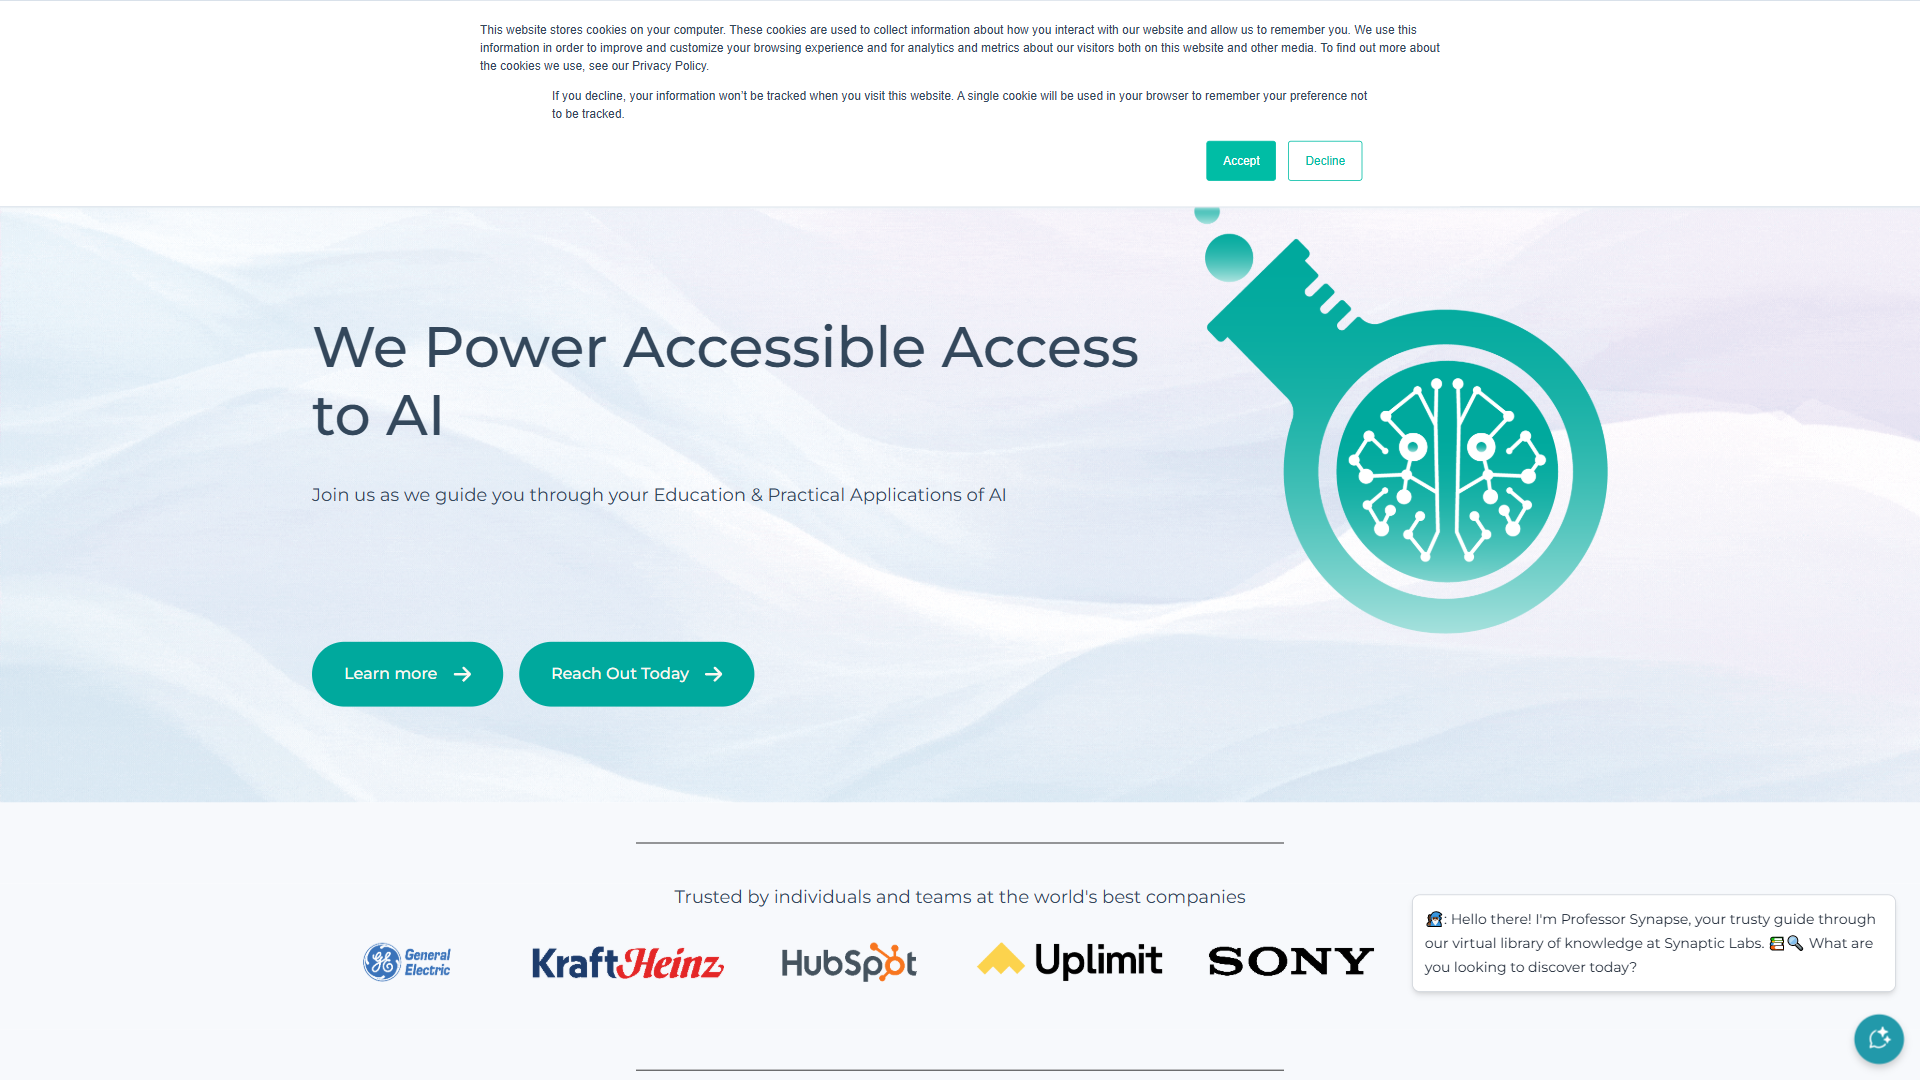
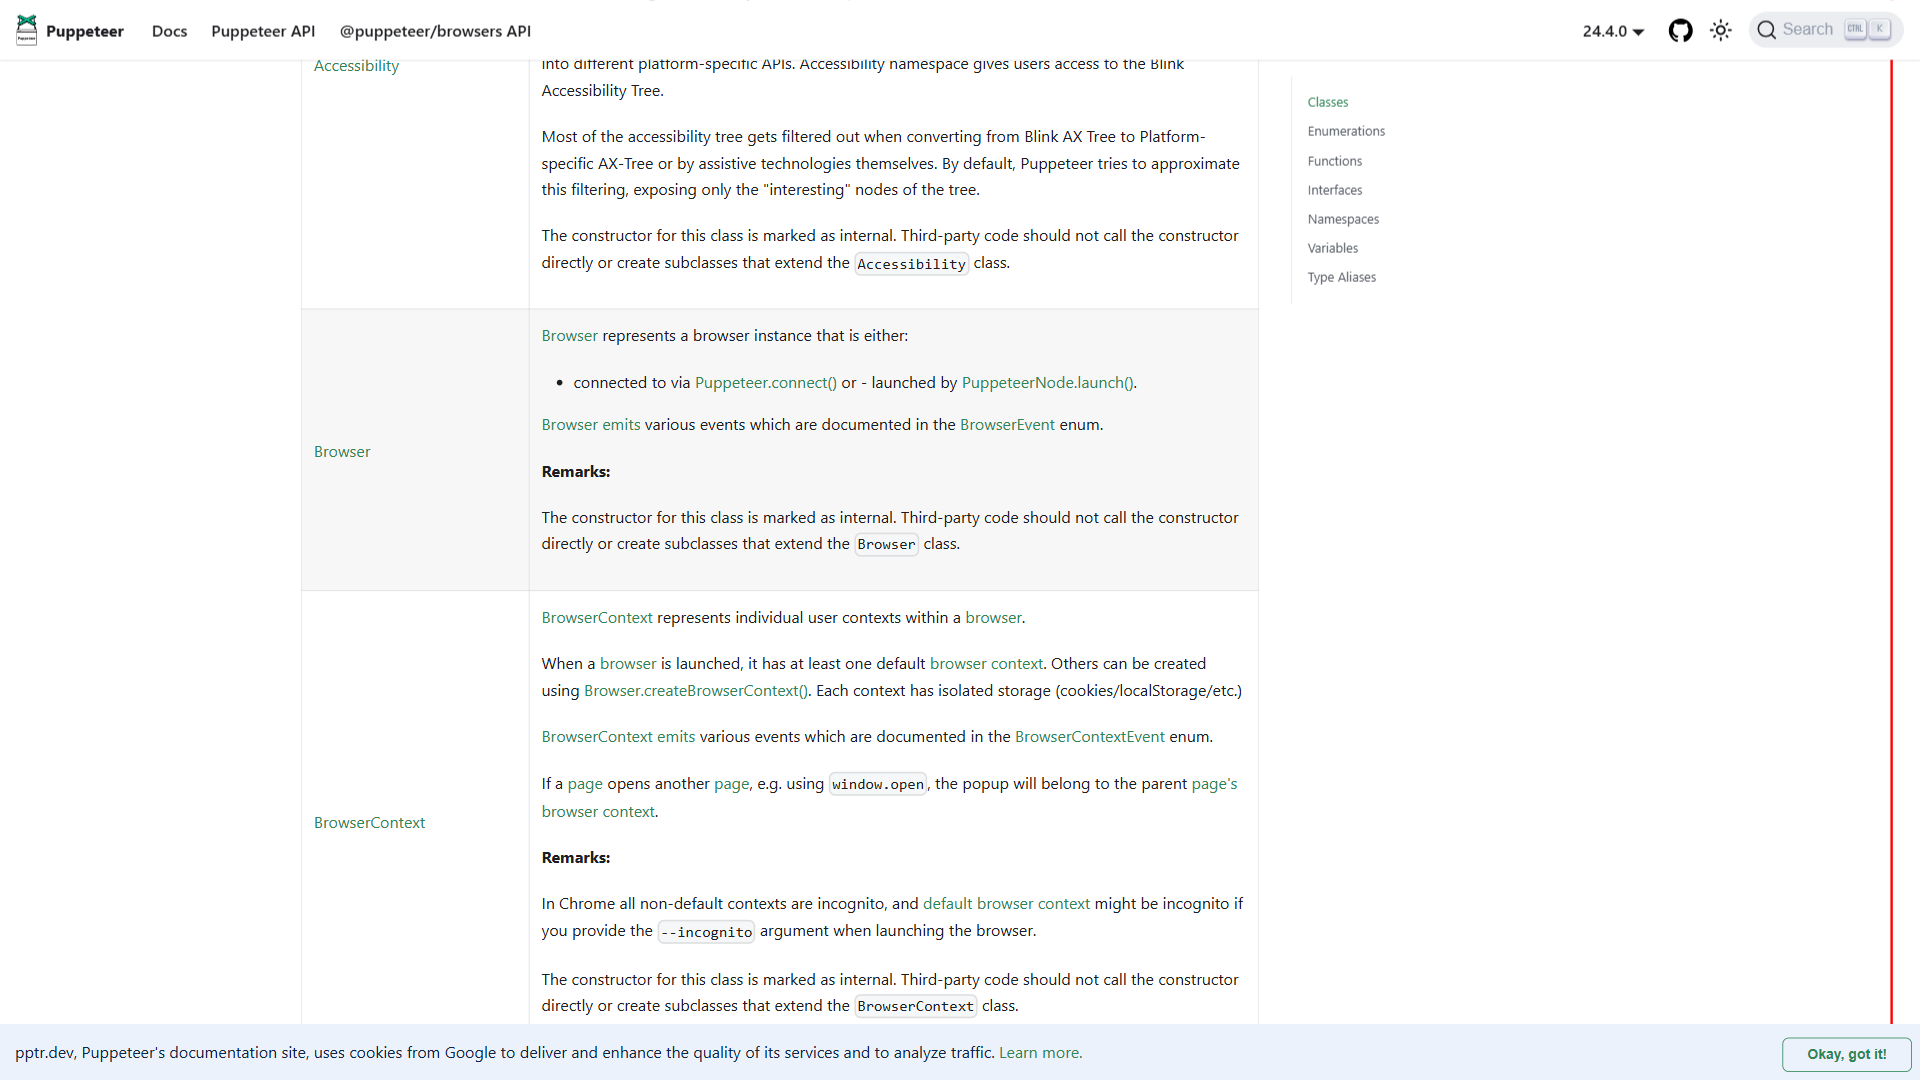
feat: enhance URL conversion by centralizing naming logic and improving options merging for parent URL converter

diff --git a/backend/src/services/converter/web/parentUrlConverter.js b/backend/src/services/converter/web/parentUrlConverter.js
@@ -8,7 +8,7 @@ import { AppError } from '../../../utils/errorHandler.js';
 import { BrowserManager } from './utils/BrowserManager.js';
 import { PageCleaner } from './utils/PageCleaner.js';
 import { ContentExtractor } from './utils/ContentExtractor.js';
-import { mergeOptions } from './utils/converterConfig.js';
+import { mergeOptions, generateNameFromUrl } from './utils/converterConfig.js';
 import pLimit from 'p-limit';
 
 class UrlFinder {
@@ -367,7 +367,7 @@ class UrlProcessor {
 export async function convertParentUrlToMarkdown(parentUrl, userOptions = {}) {
   const finder = new UrlFinder();
   const processor = new UrlProcessor();
-  const options = mergeOptions(userOptions);
+  const options = mergeOptions(userOptions, true);
 
   try {
     // Validate and normalize URL
@@ -403,21 +403,22 @@ export async function convertParentUrlToMarkdown(parentUrl, userOptions = {}) {
     // Generate index content and metadata
     const { content: indexContent, metadata } = processor.generateIndex(parentUrl, processedPages, hostname);
 
-    // Create files array
+    // Create files array with properly named files
     const files = [
       {
-        name: `index.md`,
+        name: `index.md`, // Main index file
         content: indexContent,
         type: 'text'
       }
     ];
     
-    // Add page files
+    // Add page files with consistent naming
     const uniquePages = new Map();
     processedPages.filter(p => p.success).forEach(page => {
       if (!uniquePages.has(page.normalizedUrl)) {
+        const pageName = generateNameFromUrl(page.url); // Use centralized naming function
         uniquePages.set(page.normalizedUrl, {
-          name: `pages/${page.name}`,
+          name: `pages/${pageName}`,
           content: page.content,
           type: 'text'
         });

diff --git a/backend/src/services/converter/web/utils/BrowserManager.js b/backend/src/services/converter/web/utils/BrowserManager.js
@@ -37,9 +37,10 @@ export class BrowserManager {
       console.log('🌐 Launching new Puppeteer browser instance...');
       
       try {
-        browserInstance = await puppeteer.launch({
+        // Ensure options are properly structured
+        const launchOptions = {
           headless: options.headless || 'new',
-          args: options.args || [
+          args: Array.isArray(options.args) ? options.args : [
             '--no-sandbox',
             '--disable-setuid-sandbox',
             '--disable-dev-shm-usage',
@@ -47,16 +48,23 @@ export class BrowserManager {
             '--disable-gpu',
             '--window-size=1280,800'
           ],
-          defaultViewport: options.defaultViewport || {
+          defaultViewport: {
             width: 1280,
             height: 800,
             deviceScaleFactor: 1,
             isMobile: false,
             hasTouch: false,
-            isLandscape: true
-          },
-          ...options.browserOptions
-        });
+            isLandscape: true,
+            ...(options.defaultViewport || {})
+          }
+        };
+
+        // Only spread browserOptions if it exists and is an object
+        if (options.browserOptions && typeof options.browserOptions === 'object') {
+          Object.assign(launchOptions, options.browserOptions);
+        }
+
+        browserInstance = await puppeteer.launch(launchOptions);
         
         // Set up event listeners
         browserInstance.on('disconnected', () => {

diff --git a/backend/src/services/converter/web/utils/converterConfig.js b/backend/src/services/converter/web/utils/converterConfig.js
@@ -137,7 +137,7 @@ export const DEFAULT_PARENT_URL_CONVERTER_OPTIONS = {
  * @param {Object} userOptions - User-provided options
  * @returns {Object} Merged options
  */
-export function mergeOptions(userOptions = {}) {
+export function mergeOptions(userOptions = {}, isParentUrlConverter = false) {
   // Deep merge for nested objects
   const deepMerge = (target, source) => {
     const result = { ...target };
@@ -153,7 +153,11 @@ export function mergeOptions(userOptions = {}) {
     return result;
   };
   
-  return deepMerge(DEFAULT_URL_CONVERTER_OPTIONS, userOptions);
+  const defaultOptions = isParentUrlConverter ? 
+    DEFAULT_PARENT_URL_CONVERTER_OPTIONS : 
+    DEFAULT_URL_CONVERTER_OPTIONS;
+  
+  return deepMerge(defaultOptions, userOptions);
 }
 
 /**
@@ -208,13 +212,18 @@ export function generateNameFromUrl(url) {
     // Remove file extension if present
     filename = filename.replace(/\.[^/.]+$/, '');
     
-    // Sanitize the filename
+    // Sanitize the filename and add .md extension
     filename = filename
       .toLowerCase()
       .replace(/[^a-z0-9]+/g, '-')
       .replace(/^-+|-+$/g, '');
     
-    return filename || 'untitled';
+    // Always append .md extension if not present
+    if (!filename.endsWith('.md')) {
+      filename = `${filename}.md`;
+    }
+    
+    return filename || 'untitled.md';
   } catch (error) {
     console.error('Error generating name from URL:', error);
     return 'untitled';

diff --git a/backend/src/services/converter/web/urlConverter.js b/backend/src/services/converter/web/urlConverter.js
@@ -8,7 +8,7 @@ import { generateMarkdown } from './utils/htmlToMarkdown.js';
 import { BrowserManager } from './utils/BrowserManager.js';
 import { PageCleaner } from './utils/PageCleaner.js';
 import { ContentExtractor } from './utils/ContentExtractor.js';
-import { mergeOptions } from './utils/converterConfig.js';
+import { mergeOptions, generateNameFromUrl } from './utils/converterConfig.js';
 
 export class UrlConverter {
   constructor() {
@@ -209,28 +209,7 @@ export class UrlConverter {
    * @returns {string} Generated filename
    */
   generateName(url) {
-    try {
-      const urlObj = new URL(url);
-      const parts = urlObj.pathname.split('/').filter(Boolean);
-      const lastPart = parts.pop() || 'index';
-      
-      return lastPart
-        .toLowerCase()
-        .replace(/\.[^.]+$/, '')
-        .split('?')[0]
-        .replace(/[^a-z0-9]+/g, '-')
-        .replace(/^-+|-+$/g, '')
-        .split('-')
-        .reduce((acc, part) => {
-          if ((acc + (acc ? '-' : '') + part).length <= 100) {
-            return acc + (acc ? '-' : '') + part;
-          }
-          return acc;
-        }, '') || 'index';
-    } catch (error) {
-      console.error('Error generating name:', error);
-      return 'page';
-    }
+    return generateNameFromUrl(url);
   }
 }
 

diff --git a/backend/src/services/converter/web/utils/PageCleaner.js b/backend/src/services/converter/web/utils/PageCleaner.js
@@ -221,9 +221,10 @@ export class PageCleaner {
    * Remove overlays, cookie notices, and popups
    * @param {Page} page - Puppeteer page object
    * @returns {Promise<void>}
-   async removeOverlays(page) {
-     try {
-       await page.evaluate(() => {
+   */
+  async removeOverlays(page) {
+    try {
+      await page.evaluate(() => {
          // First pass: try to find and click common close buttons
          const closeButtonSelectors = [
            'button[aria-label*="close" i]',
@@ -399,7 +400,6 @@ export class PageCleaner {
        console.error('Error removing overlays:', error);
      }
    }
-  }
 
   /**
    * Detect if a page is a Single Page Application (SPA)
